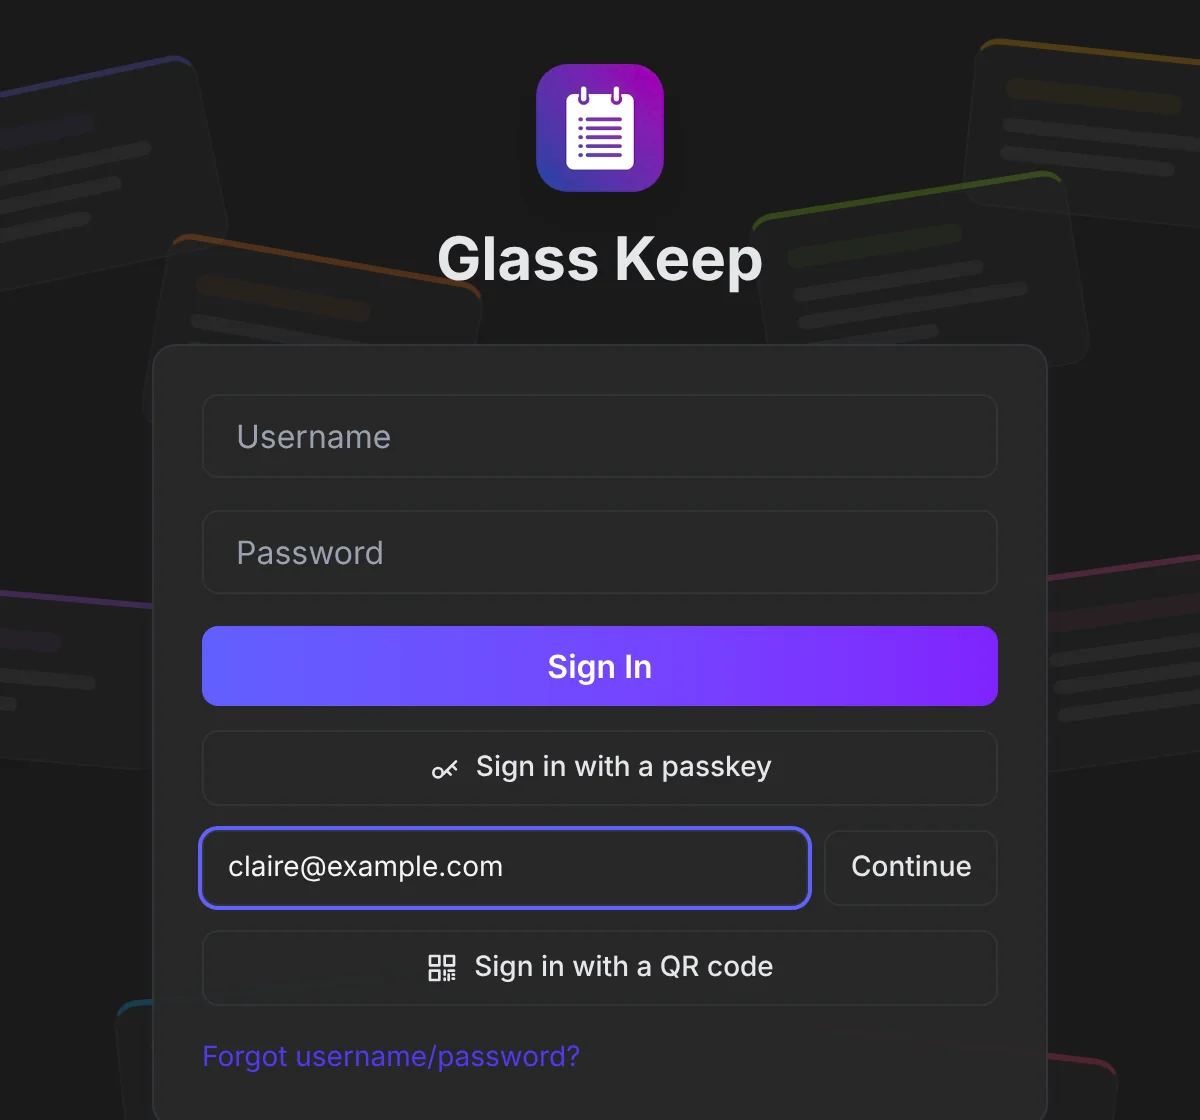
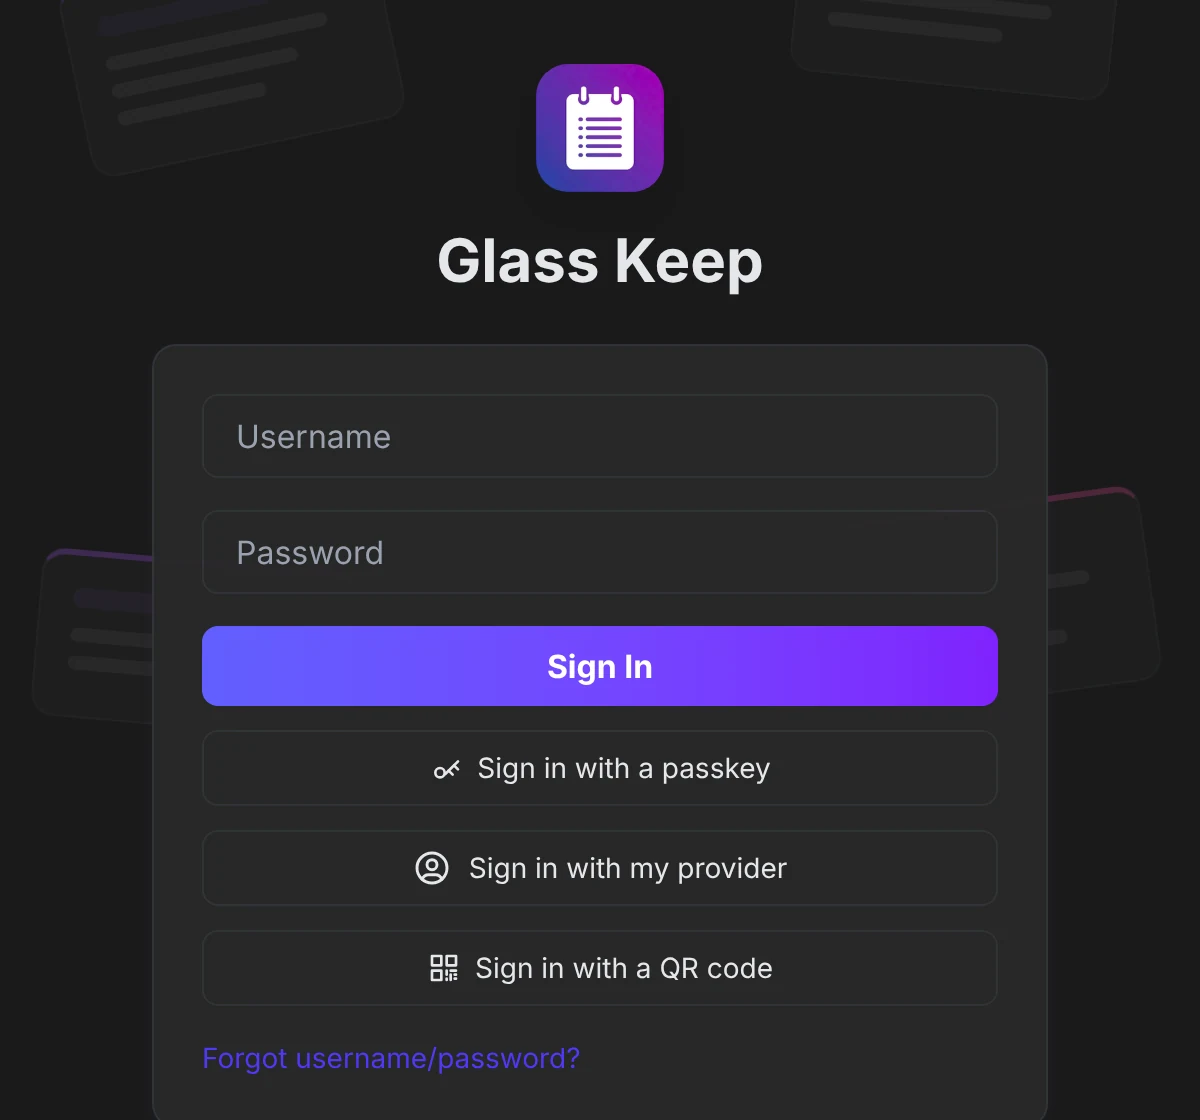
Show the direct provider button in the SSO guide's login screenshots

diff --git a/website/sso.html b/website/sso.html
@@ -69,10 +69,10 @@
     <div class="hero-shot"><div class="shot">
 <div class="shot-bar"><span class="shot-title" data-i18n="sso.bar.login">GlassKeep · Sign in</span><span class="shot-btns" aria-hidden="true"><span class="shot-btn"><svg viewBox="0 0 24 24"><path d="M6 9l6 6l6 -6"/></svg></span><span class="shot-btn"><svg viewBox="0 0 24 24"><path d="M6 15l6 -6l6 6"/></svg></span><span class="shot-btn close"><svg viewBox="0 0 24 24"><path d="M18 6l-12 12"/><path d="M6 6l12 12"/></svg></span></span></div>
 <div class="shot-media">
-<img class="shot-light l-en" src="assets/sso/gk-login-en.webp" alt="The login screen with the Sign in with my provider button opened on its identifier field" width="600" height="560" decoding="async" data-i18n-attr="alt:sso.s4.alt" />
-<img class="shot-dark l-en" src="assets/sso/gk-login-en-dark.webp" alt="The login screen with the Sign in with my provider button opened on its identifier field" width="600" height="560" decoding="async" data-i18n-attr="alt:sso.s4.alt" />
-<img class="shot-light l-fr" src="assets/sso/gk-login-fr.webp" alt="The login screen with the Sign in with my provider button opened on its identifier field" width="600" height="560" decoding="async" data-i18n-attr="alt:sso.s4.alt" />
-<img class="shot-dark l-fr" src="assets/sso/gk-login-fr-dark.webp" alt="The login screen with the Sign in with my provider button opened on its identifier field" width="600" height="560" decoding="async" data-i18n-attr="alt:sso.s4.alt" />
+<img class="shot-light l-en" src="assets/sso/gk-login-en.webp" alt="The login screen with the Sign in with my provider button" width="600" height="560" decoding="async" data-i18n-attr="alt:sso.s4.alt" />
+<img class="shot-dark l-en" src="assets/sso/gk-login-en-dark.webp" alt="The login screen with the Sign in with my provider button" width="600" height="560" decoding="async" data-i18n-attr="alt:sso.s4.alt" />
+<img class="shot-light l-fr" src="assets/sso/gk-login-fr.webp" alt="The login screen with the Sign in with my provider button" width="600" height="560" decoding="async" data-i18n-attr="alt:sso.s4.alt" />
+<img class="shot-dark l-fr" src="assets/sso/gk-login-fr-dark.webp" alt="The login screen with the Sign in with my provider button" width="600" height="560" decoding="async" data-i18n-attr="alt:sso.s4.alt" />
 </div></div></div>
   </div>
 </header>
@@ -413,10 +413,10 @@
   <div class="signin-text glass reveal"><p data-i18n-html="sso.s4.b">GlassKeep then sends you to your provider and signs you in only if the identity it returns is the one linked to that account. Any other identity is refused, even with the same e-mail address.</p><div class="signin-fig"><div class="shot">
 <div class="shot-bar"><span class="shot-title" data-i18n="sso.bar.login">GlassKeep · Sign in</span><span class="shot-btns" aria-hidden="true"><span class="shot-btn"><svg viewBox="0 0 24 24"><path d="M6 9l6 6l6 -6"/></svg></span><span class="shot-btn"><svg viewBox="0 0 24 24"><path d="M6 15l6 -6l6 6"/></svg></span><span class="shot-btn close"><svg viewBox="0 0 24 24"><path d="M18 6l-12 12"/><path d="M6 6l12 12"/></svg></span></span></div>
 <div class="shot-media">
-<img class="shot-light l-en" src="assets/sso/gk-login-en.webp" alt="The login screen with the Sign in with my provider button opened on its identifier field" width="600" height="560" loading="lazy" decoding="async" data-i18n-attr="alt:sso.s4.alt" />
-<img class="shot-dark l-en" src="assets/sso/gk-login-en-dark.webp" alt="The login screen with the Sign in with my provider button opened on its identifier field" width="600" height="560" loading="lazy" decoding="async" data-i18n-attr="alt:sso.s4.alt" />
-<img class="shot-light l-fr" src="assets/sso/gk-login-fr.webp" alt="The login screen with the Sign in with my provider button opened on its identifier field" width="600" height="560" loading="lazy" decoding="async" data-i18n-attr="alt:sso.s4.alt" />
-<img class="shot-dark l-fr" src="assets/sso/gk-login-fr-dark.webp" alt="The login screen with the Sign in with my provider button opened on its identifier field" width="600" height="560" loading="lazy" decoding="async" data-i18n-attr="alt:sso.s4.alt" />
+<img class="shot-light l-en" src="assets/sso/gk-login-en.webp" alt="The login screen with the Sign in with my provider button" width="600" height="560" loading="lazy" decoding="async" data-i18n-attr="alt:sso.s4.alt" />
+<img class="shot-dark l-en" src="assets/sso/gk-login-en-dark.webp" alt="The login screen with the Sign in with my provider button" width="600" height="560" loading="lazy" decoding="async" data-i18n-attr="alt:sso.s4.alt" />
+<img class="shot-light l-fr" src="assets/sso/gk-login-fr.webp" alt="The login screen with the Sign in with my provider button" width="600" height="560" loading="lazy" decoding="async" data-i18n-attr="alt:sso.s4.alt" />
+<img class="shot-dark l-fr" src="assets/sso/gk-login-fr-dark.webp" alt="The login screen with the Sign in with my provider button" width="600" height="560" loading="lazy" decoding="async" data-i18n-attr="alt:sso.s4.alt" />
 </div></div></div></div>
   <div class="signin-provs">
     <p class="signin-label reveal" data-i18n="sso.s4.prov">At the provider, the page is the provider's own</p>

diff --git a/website/sso-i18n.js b/website/sso-i18n.js
@@ -175,7 +175,7 @@
     "sso.s4.title": "Sign in",
     "sso.s4.lead": "On the login screen, choose Sign in with my provider. With the instance's provider only, the button goes straight to it: the identity you sign in with there says which account to open. When personal providers are allowed, type your GlassKeep username or email first; from the profile picker, selecting your profile is enough.",
     "sso.s4.b": "GlassKeep then sends you to your provider and signs you in only if the identity it returns is the one linked to that account. Any other identity is refused, even with the same e-mail address.",
-    "sso.s4.alt": "The login screen with the Sign in with my provider button opened on its identifier field",
+    "sso.s4.alt": "The login screen with the Sign in with my provider button",
     "sso.s4.prov": "At the provider, the page is the provider's own",
     "sso.si.pi.alt": "The Pocket ID sign-in page",
     "sso.si.ak.alt": "The authentik sign-in page",
@@ -394,7 +394,7 @@
     "sso.s4.title": "Se connecter",
     "sso.s4.lead": "Sur l'écran de connexion, choisissez Se connecter avec mon fournisseur. Avec le seul fournisseur de l'instance, le bouton y mène directement : l'identité avec laquelle vous vous y connectez indique quel compte ouvrir. Quand les fournisseurs personnels sont autorisés, saisissez d'abord votre pseudo ou e-mail GlassKeep ; depuis le sélecteur de profils, choisir votre profil suffit.",
     "sso.s4.b": "GlassKeep vous envoie alors chez votre fournisseur et ne vous connecte que si l'identité renvoyée est celle associée à ce compte. Toute autre identité est refusée, même avec la même adresse e-mail.",
-    "sso.s4.alt": "L'écran de connexion avec le bouton Se connecter avec mon fournisseur déplié sur son champ d'identifiant",
+    "sso.s4.alt": "L'écran de connexion avec le bouton Se connecter avec mon fournisseur",
     "sso.s4.prov": "Chez le fournisseur, la page est celle du fournisseur",
     "sso.si.pi.alt": "La page de connexion de Pocket ID",
     "sso.si.ak.alt": "La page de connexion d'authentik",
